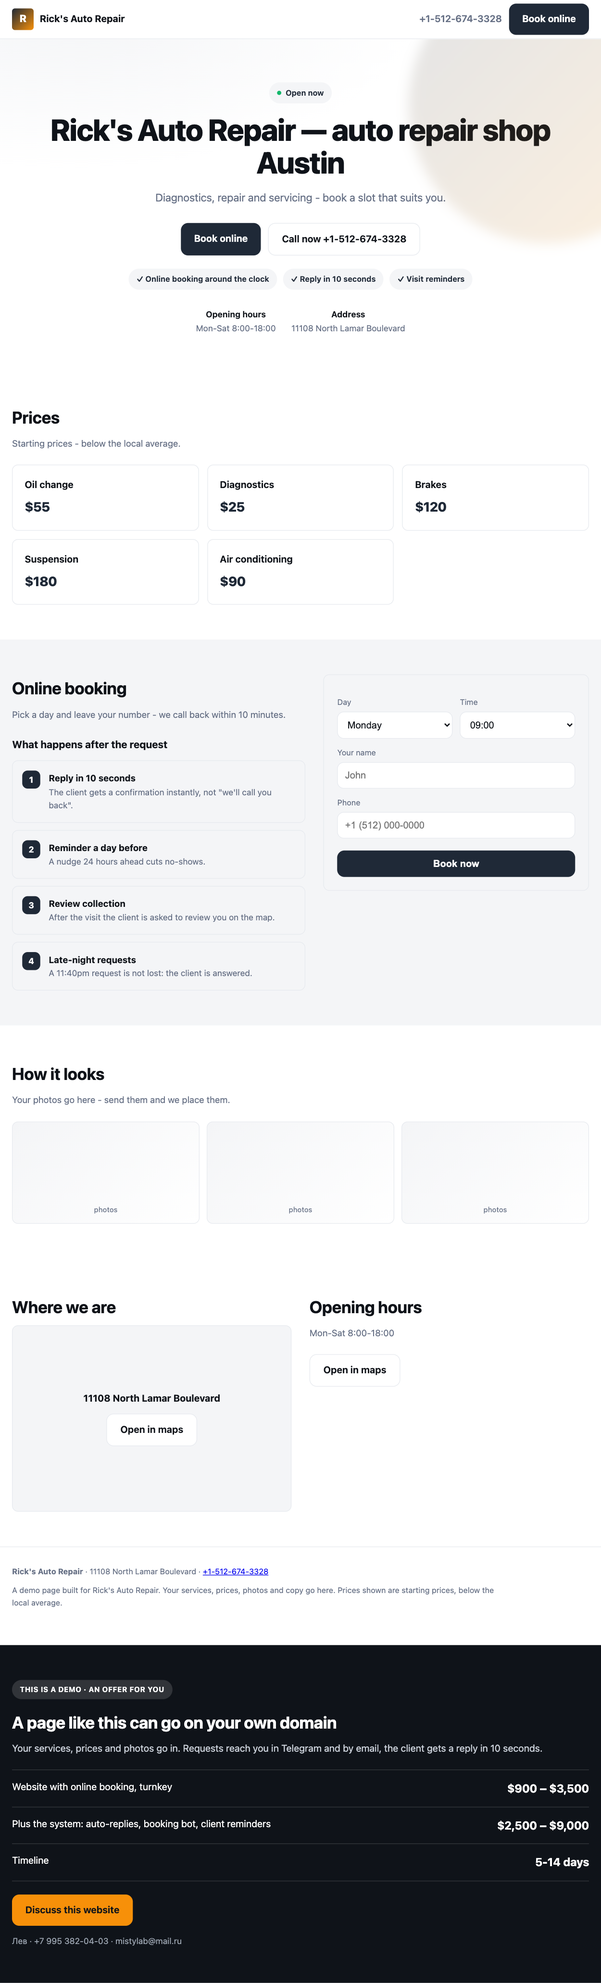
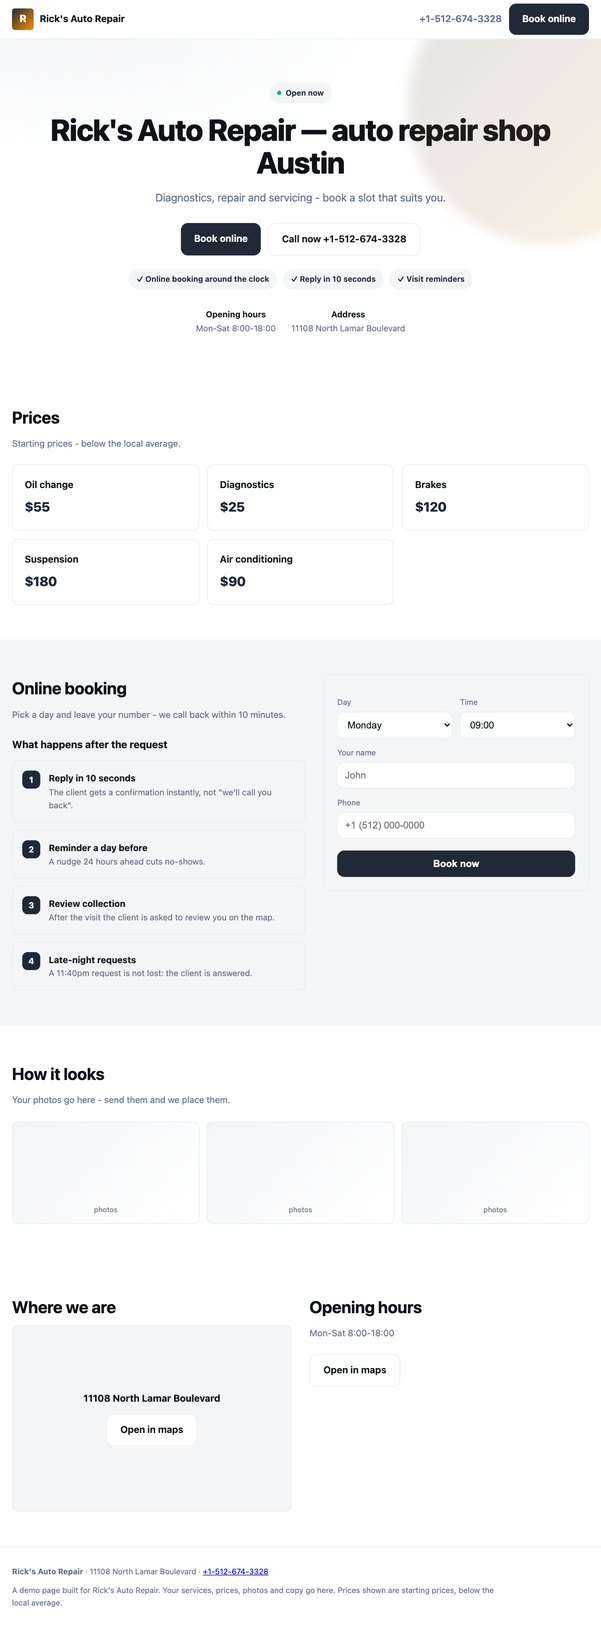
demos: 2026-10-21

diff --git a/demos/40-ru/index.html b/demos/40-ru/index.html
@@ -84,17 +84,6 @@
      backdrop-filter:blur(10px);border-top:1px solid var(--line);padding:10px 16px;
      display:flex;gap:10px;align-items:center}
  .sticky .btn{flex:1;text-align:center}
- .offer{background:var(--ink);color:#fff}
- .offer .tag{display:inline-block;background:rgba(255,255,255,.14);color:#fff;padding:6px 13px;
-     border-radius:100px;font-size:12px;font-weight:700;letter-spacing:.04em;text-transform:uppercase}
- .offer h2{color:#fff;margin-top:16px}
- .offer p{color:#c9cfd8}
- .offer .rows{margin-top:22px;border-top:1px solid rgba(255,255,255,.16)}
- .offer .r{display:flex;justify-content:space-between;gap:16px;padding:15px 0;
-     border-bottom:1px solid rgba(255,255,255,.16);flex-wrap:wrap}
- .offer .r b{font-size:19px;white-space:nowrap}
- .offer .btn{background:var(--b);color:#0f1319;margin-top:22px}
- .offer .who{margin-top:14px;font-size:14px;color:#9aa3af}
  @media(min-width:860px){.sticky{display:none}body{padding-bottom:0}}
  @media(max-width:820px){.book,.two{grid-template-columns:1fr}.hero{padding:44px 0 34px}}
  @media(max-width:560px){.bar .tel{display:none}.bar{height:58px}.logo{font-size:15px}
@@ -164,8 +153,6 @@
   <div><b>Первый юридический центр Казани</b> · Казань · <a href="tel:+7 843 2042886">+7 843 2042886</a></div>
   <div class="note">Демонстрационная страница, сделанная для Первый юридический центр Казани. Услуги, цены, фото и тексты подставим ваши. Цены в примере — стартовые, ниже средней по городу.</div>
 </div></footer>
-
-<section class="offer"><div class="wrap"><span class="tag">Это демонстрация · предложение для вас</span><h2>Такую страницу можно поставить на ваш домен</h2><p>Услуги, цены и фото подставим ваши. Заявки будут приходить вам в Telegram и на почту, клиенту — ответ за 10 секунд.</p><div class="rows"><div class="r"><span>Сайт с онлайн-записью, под ключ</span><b>45 000 ₽ – 150 000 ₽</b></div><div class="r"><span>Плюс система: автоответы, бот записи, напоминания клиентам</span><b>120 000 ₽ – 400 000 ₽</b></div><div class="r"><span>Срок</span><b>5-14 дн.</b></div></div><a class="btn" href="tel:+7 995 382-04-03">Обсудить этот сайт</a><div class="who">Лев · +7 995 382-04-03 · mistylab@mail.ru</div></div></section>
 
 <div class="sticky">
   <a class="btn ghost" href="tel:+7 843 2042886">Позвонить</a>

diff --git a/demos/36-ru/index.html b/demos/36-ru/index.html
@@ -84,17 +84,6 @@
      backdrop-filter:blur(10px);border-top:1px solid var(--line);padding:10px 16px;
      display:flex;gap:10px;align-items:center}
  .sticky .btn{flex:1;text-align:center}
- .offer{background:var(--ink);color:#fff}
- .offer .tag{display:inline-block;background:rgba(255,255,255,.14);color:#fff;padding:6px 13px;
-     border-radius:100px;font-size:12px;font-weight:700;letter-spacing:.04em;text-transform:uppercase}
- .offer h2{color:#fff;margin-top:16px}
- .offer p{color:#c9cfd8}
- .offer .rows{margin-top:22px;border-top:1px solid rgba(255,255,255,.16)}
- .offer .r{display:flex;justify-content:space-between;gap:16px;padding:15px 0;
-     border-bottom:1px solid rgba(255,255,255,.16);flex-wrap:wrap}
- .offer .r b{font-size:19px;white-space:nowrap}
- .offer .btn{background:var(--b);color:#0f1319;margin-top:22px}
- .offer .who{margin-top:14px;font-size:14px;color:#9aa3af}
  @media(min-width:860px){.sticky{display:none}body{padding-bottom:0}}
  @media(max-width:820px){.book,.two{grid-template-columns:1fr}.hero{padding:44px 0 34px}}
  @media(max-width:560px){.bar .tel{display:none}.bar{height:58px}.logo{font-size:15px}
@@ -164,8 +153,6 @@
   <div><b>Косметология Карины Каримовой</b> · Казань · <a href="tel:+7 919 6220003">+7 919 6220003</a></div>
   <div class="note">Демонстрационная страница, сделанная для Косметология Карины Каримовой. Услуги, цены, фото и тексты подставим ваши. Цены в примере — стартовые, ниже средней по городу.</div>
 </div></footer>
-
-<section class="offer"><div class="wrap"><span class="tag">Это демонстрация · предложение для вас</span><h2>Такую страницу можно поставить на ваш домен</h2><p>Услуги, цены и фото подставим ваши. Заявки будут приходить вам в Telegram и на почту, клиенту — ответ за 10 секунд.</p><div class="rows"><div class="r"><span>Сайт с онлайн-записью, под ключ</span><b>45 000 ₽ – 150 000 ₽</b></div><div class="r"><span>Плюс система: автоответы, бот записи, напоминания клиентам</span><b>120 000 ₽ – 400 000 ₽</b></div><div class="r"><span>Срок</span><b>5-14 дн.</b></div></div><a class="btn" href="tel:+7 995 382-04-03">Обсудить этот сайт</a><div class="who">Лев · +7 995 382-04-03 · mistylab@mail.ru</div></div></section>
 
 <div class="sticky">
   <a class="btn ghost" href="tel:+7 919 6220003">Позвонить</a>

diff --git a/demos/37-ru/index.html b/demos/37-ru/index.html
@@ -84,17 +84,6 @@
      backdrop-filter:blur(10px);border-top:1px solid var(--line);padding:10px 16px;
      display:flex;gap:10px;align-items:center}
  .sticky .btn{flex:1;text-align:center}
- .offer{background:var(--ink);color:#fff}
- .offer .tag{display:inline-block;background:rgba(255,255,255,.14);color:#fff;padding:6px 13px;
-     border-radius:100px;font-size:12px;font-weight:700;letter-spacing:.04em;text-transform:uppercase}
- .offer h2{color:#fff;margin-top:16px}
- .offer p{color:#c9cfd8}
- .offer .rows{margin-top:22px;border-top:1px solid rgba(255,255,255,.16)}
- .offer .r{display:flex;justify-content:space-between;gap:16px;padding:15px 0;
-     border-bottom:1px solid rgba(255,255,255,.16);flex-wrap:wrap}
- .offer .r b{font-size:19px;white-space:nowrap}
- .offer .btn{background:var(--b);color:#0f1319;margin-top:22px}
- .offer .who{margin-top:14px;font-size:14px;color:#9aa3af}
  @media(min-width:860px){.sticky{display:none}body{padding-bottom:0}}
  @media(max-width:820px){.book,.two{grid-template-columns:1fr}.hero{padding:44px 0 34px}}
  @media(max-width:560px){.bar .tel{display:none}.bar{height:58px}.logo{font-size:15px}
@@ -164,8 +153,6 @@
   <div><b>Барбер кинг</b> · улица Декабристов 112 · <a href="tel:+7 987 4872992">+7 987 4872992</a></div>
   <div class="note">Демонстрационная страница, сделанная для Барбер кинг. Услуги, цены, фото и тексты подставим ваши. Цены в примере — стартовые, ниже средней по городу.</div>
 </div></footer>
-
-<section class="offer"><div class="wrap"><span class="tag">Это демонстрация · предложение для вас</span><h2>Такую страницу можно поставить на ваш домен</h2><p>Услуги, цены и фото подставим ваши. Заявки будут приходить вам в Telegram и на почту, клиенту — ответ за 10 секунд.</p><div class="rows"><div class="r"><span>Сайт с онлайн-записью, под ключ</span><b>45 000 ₽ – 150 000 ₽</b></div><div class="r"><span>Плюс система: автоответы, бот записи, напоминания клиентам</span><b>120 000 ₽ – 400 000 ₽</b></div><div class="r"><span>Срок</span><b>5-14 дн.</b></div></div><a class="btn" href="tel:+7 995 382-04-03">Обсудить этот сайт</a><div class="who">Лев · +7 995 382-04-03 · mistylab@mail.ru</div></div></section>
 
 <div class="sticky">
   <a class="btn ghost" href="tel:+7 987 4872992">Позвонить</a>

diff --git a/demos/38-ru/index.html b/demos/38-ru/index.html
@@ -84,17 +84,6 @@
      backdrop-filter:blur(10px);border-top:1px solid var(--line);padding:10px 16px;
      display:flex;gap:10px;align-items:center}
  .sticky .btn{flex:1;text-align:center}
- .offer{background:var(--ink);color:#fff}
- .offer .tag{display:inline-block;background:rgba(255,255,255,.14);color:#fff;padding:6px 13px;
-     border-radius:100px;font-size:12px;font-weight:700;letter-spacing:.04em;text-transform:uppercase}
- .offer h2{color:#fff;margin-top:16px}
- .offer p{color:#c9cfd8}
- .offer .rows{margin-top:22px;border-top:1px solid rgba(255,255,255,.16)}
- .offer .r{display:flex;justify-content:space-between;gap:16px;padding:15px 0;
-     border-bottom:1px solid rgba(255,255,255,.16);flex-wrap:wrap}
- .offer .r b{font-size:19px;white-space:nowrap}
- .offer .btn{background:var(--b);color:#0f1319;margin-top:22px}
- .offer .who{margin-top:14px;font-size:14px;color:#9aa3af}
  @media(min-width:860px){.sticky{display:none}body{padding-bottom:0}}
  @media(max-width:820px){.book,.two{grid-template-columns:1fr}.hero{padding:44px 0 34px}}
  @media(max-width:560px){.bar .tel{display:none}.bar{height:58px}.logo{font-size:15px}
@@ -164,8 +153,6 @@
   <div><b>Клиника Мавлиевой</b> · Казань · <a href="tel:+7 966 2408619">+7 966 2408619</a></div>
   <div class="note">Демонстрационная страница, сделанная для Клиника Мавлиевой. Услуги, цены, фото и тексты подставим ваши. Цены в примере — стартовые, ниже средней по городу.</div>
 </div></footer>
-
-<section class="offer"><div class="wrap"><span class="tag">Это демонстрация · предложение для вас</span><h2>Такую страницу можно поставить на ваш домен</h2><p>Услуги, цены и фото подставим ваши. Заявки будут приходить вам в Telegram и на почту, клиенту — ответ за 10 секунд.</p><div class="rows"><div class="r"><span>Сайт с онлайн-записью, под ключ</span><b>45 000 ₽ – 150 000 ₽</b></div><div class="r"><span>Плюс система: автоответы, бот записи, напоминания клиентам</span><b>120 000 ₽ – 400 000 ₽</b></div><div class="r"><span>Срок</span><b>5-14 дн.</b></div></div><a class="btn" href="tel:+7 995 382-04-03">Обсудить этот сайт</a><div class="who">Лев · +7 995 382-04-03 · mistylab@mail.ru</div></div></section>
 
 <div class="sticky">
   <a class="btn ghost" href="tel:+7 966 2408619">Позвонить</a>

diff --git a/demos/31-ru/index.html b/demos/31-ru/index.html
@@ -84,17 +84,6 @@
      backdrop-filter:blur(10px);border-top:1px solid var(--line);padding:10px 16px;
      display:flex;gap:10px;align-items:center}
  .sticky .btn{flex:1;text-align:center}
- .offer{background:var(--ink);color:#fff}
- .offer .tag{display:inline-block;background:rgba(255,255,255,.14);color:#fff;padding:6px 13px;
-     border-radius:100px;font-size:12px;font-weight:700;letter-spacing:.04em;text-transform:uppercase}
- .offer h2{color:#fff;margin-top:16px}
- .offer p{color:#c9cfd8}
- .offer .rows{margin-top:22px;border-top:1px solid rgba(255,255,255,.16)}
- .offer .r{display:flex;justify-content:space-between;gap:16px;padding:15px 0;
-     border-bottom:1px solid rgba(255,255,255,.16);flex-wrap:wrap}
- .offer .r b{font-size:19px;white-space:nowrap}
- .offer .btn{background:var(--b);color:#0f1319;margin-top:22px}
- .offer .who{margin-top:14px;font-size:14px;color:#9aa3af}
  @media(min-width:860px){.sticky{display:none}body{padding-bottom:0}}
  @media(max-width:820px){.book,.two{grid-template-columns:1fr}.hero{padding:44px 0 34px}}
  @media(max-width:560px){.bar .tel{display:none}.bar{height:58px}.logo{font-size:15px}
@@ -164,8 +153,6 @@
   <div><b>Дс-оптимус</b> · улица Юлиуса Фучика 8 · <a href="tel:+7 843 2684577">+7 843 2684577</a></div>
   <div class="note">Демонстрационная страница, сделанная для Дс-оптимус. Услуги, цены, фото и тексты подставим ваши. Цены в примере — стартовые, ниже средней по городу.</div>
 </div></footer>
-
-<section class="offer"><div class="wrap"><span class="tag">Это демонстрация · предложение для вас</span><h2>Такую страницу можно поставить на ваш домен</h2><p>Услуги, цены и фото подставим ваши. Заявки будут приходить вам в Telegram и на почту, клиенту — ответ за 10 секунд.</p><div class="rows"><div class="r"><span>Сайт с онлайн-записью, под ключ</span><b>45 000 ₽ – 150 000 ₽</b></div><div class="r"><span>Плюс система: автоответы, бот записи, напоминания клиентам</span><b>120 000 ₽ – 400 000 ₽</b></div><div class="r"><span>Срок</span><b>5-14 дн.</b></div></div><a class="btn" href="tel:+7 995 382-04-03">Обсудить этот сайт</a><div class="who">Лев · +7 995 382-04-03 · mistylab@mail.ru</div></div></section>
 
 <div class="sticky">
   <a class="btn ghost" href="tel:+7 843 2684577">Позвонить</a>

diff --git a/demos/32-ru/index.html b/demos/32-ru/index.html
@@ -84,17 +84,6 @@
      backdrop-filter:blur(10px);border-top:1px solid var(--line);padding:10px 16px;
      display:flex;gap:10px;align-items:center}
  .sticky .btn{flex:1;text-align:center}
- .offer{background:var(--ink);color:#fff}
- .offer .tag{display:inline-block;background:rgba(255,255,255,.14);color:#fff;padding:6px 13px;
-     border-radius:100px;font-size:12px;font-weight:700;letter-spacing:.04em;text-transform:uppercase}
- .offer h2{color:#fff;margin-top:16px}
- .offer p{color:#c9cfd8}
- .offer .rows{margin-top:22px;border-top:1px solid rgba(255,255,255,.16)}
- .offer .r{display:flex;justify-content:space-between;gap:16px;padding:15px 0;
-     border-bottom:1px solid rgba(255,255,255,.16);flex-wrap:wrap}
- .offer .r b{font-size:19px;white-space:nowrap}
- .offer .btn{background:var(--b);color:#0f1319;margin-top:22px}
- .offer .who{margin-top:14px;font-size:14px;color:#9aa3af}
  @media(min-width:860px){.sticky{display:none}body{padding-bottom:0}}
  @media(max-width:820px){.book,.two{grid-template-columns:1fr}.hero{padding:44px 0 34px}}
  @media(max-width:560px){.bar .tel{display:none}.bar{height:58px}.logo{font-size:15px}
@@ -164,8 +153,6 @@
   <div><b>Perfect Auto Workshop</b> · Казань · <a href="tel:+7 843 2121612">+7 843 2121612</a></div>
   <div class="note">Демонстрационная страница, сделанная для Perfect Auto Workshop. Услуги, цены, фото и тексты подставим ваши. Цены в примере — стартовые, ниже средней по городу.</div>
 </div></footer>
-
-<section class="offer"><div class="wrap"><span class="tag">Это демонстрация · предложение для вас</span><h2>Такую страницу можно поставить на ваш домен</h2><p>Услуги, цены и фото подставим ваши. Заявки будут приходить вам в Telegram и на почту, клиенту — ответ за 10 секунд.</p><div class="rows"><div class="r"><span>Сайт с онлайн-записью, под ключ</span><b>45 000 ₽ – 150 000 ₽</b></div><div class="r"><span>Плюс система: автоответы, бот записи, напоминания клиентам</span><b>120 000 ₽ – 400 000 ₽</b></div><div class="r"><span>Срок</span><b>5-14 дн.</b></div></div><a class="btn" href="tel:+7 995 382-04-03">Обсудить этот сайт</a><div class="who">Лев · +7 995 382-04-03 · mistylab@mail.ru</div></div></section>
 
 <div class="sticky">
   <a class="btn ghost" href="tel:+7 843 2121612">Позвонить</a>

diff --git a/demos/33-ru/index.html b/demos/33-ru/index.html
@@ -84,17 +84,6 @@
      backdrop-filter:blur(10px);border-top:1px solid var(--line);padding:10px 16px;
      display:flex;gap:10px;align-items:center}
  .sticky .btn{flex:1;text-align:center}
- .offer{background:var(--ink);color:#fff}
- .offer .tag{display:inline-block;background:rgba(255,255,255,.14);color:#fff;padding:6px 13px;
-     border-radius:100px;font-size:12px;font-weight:700;letter-spacing:.04em;text-transform:uppercase}
- .offer h2{color:#fff;margin-top:16px}
- .offer p{color:#c9cfd8}
- .offer .rows{margin-top:22px;border-top:1px solid rgba(255,255,255,.16)}
- .offer .r{display:flex;justify-content:space-between;gap:16px;padding:15px 0;
-     border-bottom:1px solid rgba(255,255,255,.16);flex-wrap:wrap}
- .offer .r b{font-size:19px;white-space:nowrap}
- .offer .btn{background:var(--b);color:#0f1319;margin-top:22px}
- .offer .who{margin-top:14px;font-size:14px;color:#9aa3af}
  @media(min-width:860px){.sticky{display:none}body{padding-bottom:0}}
  @media(max-width:820px){.book,.two{grid-template-columns:1fr}.hero{padding:44px 0 34px}}
  @media(max-width:560px){.bar .tel{display:none}.bar{height:58px}.logo{font-size:15px}
@@ -164,8 +153,6 @@
   <div><b>Автоцех</b> · Казань · <a href="tel:+7 953 8986999">+7 953 8986999</a></div>
   <div class="note">Демонстрационная страница, сделанная для Автоцех. Услуги, цены, фото и тексты подставим ваши. Цены в примере — стартовые, ниже средней по городу.</div>
 </div></footer>
-
-<section class="offer"><div class="wrap"><span class="tag">Это демонстрация · предложение для вас</span><h2>Такую страницу можно поставить на ваш домен</h2><p>Услуги, цены и фото подставим ваши. Заявки будут приходить вам в Telegram и на почту, клиенту — ответ за 10 секунд.</p><div class="rows"><div class="r"><span>Сайт с онлайн-записью, под ключ</span><b>45 000 ₽ – 150 000 ₽</b></div><div class="r"><span>Плюс система: автоответы, бот записи, напоминания клиентам</span><b>120 000 ₽ – 400 000 ₽</b></div><div class="r"><span>Срок</span><b>5-14 дн.</b></div></div><a class="btn" href="tel:+7 995 382-04-03">Обсудить этот сайт</a><div class="who">Лев · +7 995 382-04-03 · mistylab@mail.ru</div></div></section>
 
 <div class="sticky">
   <a class="btn ghost" href="tel:+7 953 8986999">Позвонить</a>

diff --git a/demos/34-ru/index.html b/demos/34-ru/index.html
@@ -84,17 +84,6 @@
      backdrop-filter:blur(10px);border-top:1px solid var(--line);padding:10px 16px;
      display:flex;gap:10px;align-items:center}
  .sticky .btn{flex:1;text-align:center}
- .offer{background:var(--ink);color:#fff}
- .offer .tag{display:inline-block;background:rgba(255,255,255,.14);color:#fff;padding:6px 13px;
-     border-radius:100px;font-size:12px;font-weight:700;letter-spacing:.04em;text-transform:uppercase}
- .offer h2{color:#fff;margin-top:16px}
- .offer p{color:#c9cfd8}
- .offer .rows{margin-top:22px;border-top:1px solid rgba(255,255,255,.16)}
- .offer .r{display:flex;justify-content:space-between;gap:16px;padding:15px 0;
-     border-bottom:1px solid rgba(255,255,255,.16);flex-wrap:wrap}
- .offer .r b{font-size:19px;white-space:nowrap}
- .offer .btn{background:var(--b);color:#0f1319;margin-top:22px}
- .offer .who{margin-top:14px;font-size:14px;color:#9aa3af}
  @media(min-width:860px){.sticky{display:none}body{padding-bottom:0}}
  @media(max-width:820px){.book,.two{grid-template-columns:1fr}.hero{padding:44px 0 34px}}
  @media(max-width:560px){.bar .tel{display:none}.bar{height:58px}.logo{font-size:15px}
@@ -164,8 +153,6 @@
   <div><b>Инжектор</b> · Казань · <a href="tel:+78432586395">+78432586395</a></div>
   <div class="note">Демонстрационная страница, сделанная для Инжектор. Услуги, цены, фото и тексты подставим ваши. Цены в примере — стартовые, ниже средней по городу.</div>
 </div></footer>
-
-<section class="offer"><div class="wrap"><span class="tag">Это демонстрация · предложение для вас</span><h2>Такую страницу можно поставить на ваш домен</h2><p>Услуги, цены и фото подставим ваши. Заявки будут приходить вам в Telegram и на почту, клиенту — ответ за 10 секунд.</p><div class="rows"><div class="r"><span>Сайт с онлайн-записью, под ключ</span><b>45 000 ₽ – 150 000 ₽</b></div><div class="r"><span>Плюс система: автоответы, бот записи, напоминания клиентам</span><b>120 000 ₽ – 400 000 ₽</b></div><div class="r"><span>Срок</span><b>5-14 дн.</b></div></div><a class="btn" href="tel:+7 995 382-04-03">Обсудить этот сайт</a><div class="who">Лев · +7 995 382-04-03 · mistylab@mail.ru</div></div></section>
 
 <div class="sticky">
   <a class="btn ghost" href="tel:+78432586395">Позвонить</a>

diff --git a/demos/39-ru/index.html b/demos/39-ru/index.html
@@ -84,17 +84,6 @@
      backdrop-filter:blur(10px);border-top:1px solid var(--line);padding:10px 16px;
      display:flex;gap:10px;align-items:center}
  .sticky .btn{flex:1;text-align:center}
- .offer{background:var(--ink);color:#fff}
- .offer .tag{display:inline-block;background:rgba(255,255,255,.14);color:#fff;padding:6px 13px;
-     border-radius:100px;font-size:12px;font-weight:700;letter-spacing:.04em;text-transform:uppercase}
- .offer h2{color:#fff;margin-top:16px}
- .offer p{color:#c9cfd8}
- .offer .rows{margin-top:22px;border-top:1px solid rgba(255,255,255,.16)}
- .offer .r{display:flex;justify-content:space-between;gap:16px;padding:15px 0;
-     border-bottom:1px solid rgba(255,255,255,.16);flex-wrap:wrap}
- .offer .r b{font-size:19px;white-space:nowrap}
- .offer .btn{background:var(--b);color:#0f1319;margin-top:22px}
- .offer .who{margin-top:14px;font-size:14px;color:#9aa3af}
  @media(min-width:860px){.sticky{display:none}body{padding-bottom:0}}
  @media(max-width:820px){.book,.two{grid-template-columns:1fr}.hero{padding:44px 0 34px}}
  @media(max-width:560px){.bar .tel{display:none}.bar{height:58px}.logo{font-size:15px}
@@ -164,8 +153,6 @@
   <div><b>Zoo Вет</b> · Казань · <a href="tel:+7 843 253-85-81">+7 843 253-85-81</a></div>
   <div class="note">Демонстрационная страница, сделанная для Zoo Вет. Услуги, цены, фото и тексты подставим ваши. Цены в примере — стартовые, ниже средней по городу.</div>
 </div></footer>
-
-<section class="offer"><div class="wrap"><span class="tag">Это демонстрация · предложение для вас</span><h2>Такую страницу можно поставить на ваш домен</h2><p>Услуги, цены и фото подставим ваши. Заявки будут приходить вам в Telegram и на почту, клиенту — ответ за 10 секунд.</p><div class="rows"><div class="r"><span>Сайт с онлайн-записью, под ключ</span><b>45 000 ₽ – 150 000 ₽</b></div><div class="r"><span>Плюс система: автоответы, бот записи, напоминания клиентам</span><b>120 000 ₽ – 400 000 ₽</b></div><div class="r"><span>Срок</span><b>5-14 дн.</b></div></div><a class="btn" href="tel:+7 995 382-04-03">Обсудить этот сайт</a><div class="who">Лев · +7 995 382-04-03 · mistylab@mail.ru</div></div></section>
 
 <div class="sticky">
   <a class="btn ghost" href="tel:+7 843 253-85-81">Позвонить</a>

diff --git a/demos/35-ru/index.html b/demos/35-ru/index.html
@@ -84,17 +84,6 @@
      backdrop-filter:blur(10px);border-top:1px solid var(--line);padding:10px 16px;
      display:flex;gap:10px;align-items:center}
  .sticky .btn{flex:1;text-align:center}
- .offer{background:var(--ink);color:#fff}
- .offer .tag{display:inline-block;background:rgba(255,255,255,.14);color:#fff;padding:6px 13px;
-     border-radius:100px;font-size:12px;font-weight:700;letter-spacing:.04em;text-transform:uppercase}
- .offer h2{color:#fff;margin-top:16px}
- .offer p{color:#c9cfd8}
- .offer .rows{margin-top:22px;border-top:1px solid rgba(255,255,255,.16)}
- .offer .r{display:flex;justify-content:space-between;gap:16px;padding:15px 0;
-     border-bottom:1px solid rgba(255,255,255,.16);flex-wrap:wrap}
- .offer .r b{font-size:19px;white-space:nowrap}
- .offer .btn{background:var(--b);color:#0f1319;margin-top:22px}
- .offer .who{margin-top:14px;font-size:14px;color:#9aa3af}
  @media(min-width:860px){.sticky{display:none}body{padding-bottom:0}}
  @media(max-width:820px){.book,.two{grid-template-columns:1fr}.hero{padding:44px 0 34px}}
  @media(max-width:560px){.bar .tel{display:none}.bar{height:58px}.logo{font-size:15px}
@@ -164,8 +153,6 @@
   <div><b>Kznsalon</b> · Казань · <a href="tel:+7 927 4271234">+7 927 4271234</a></div>
   <div class="note">Демонстрационная страница, сделанная для Kznsalon. Услуги, цены, фото и тексты подставим ваши. Цены в примере — стартовые, ниже средней по городу.</div>
 </div></footer>
-
-<section class="offer"><div class="wrap"><span class="tag">Это демонстрация · предложение для вас</span><h2>Такую страницу можно поставить на ваш домен</h2><p>Услуги, цены и фото подставим ваши. Заявки будут приходить вам в Telegram и на почту, клиенту — ответ за 10 секунд.</p><div class="rows"><div class="r"><span>Сайт с онлайн-записью, под ключ</span><b>45 000 ₽ – 150 000 ₽</b></div><div class="r"><span>Плюс система: автоответы, бот записи, напоминания клиентам</span><b>120 000 ₽ – 400 000 ₽</b></div><div class="r"><span>Срок</span><b>5-14 дн.</b></div></div><a class="btn" href="tel:+7 995 382-04-03">Обсудить этот сайт</a><div class="who">Лев · +7 995 382-04-03 · mistylab@mail.ru</div></div></section>
 
 <div class="sticky">
   <a class="btn ghost" href="tel:+7 927 4271234">Позвонить</a>

diff --git a/demos/19-en/index.html b/demos/19-en/index.html
@@ -84,17 +84,6 @@
      backdrop-filter:blur(10px);border-top:1px solid var(--line);padding:10px 16px;
      display:flex;gap:10px;align-items:center}
  .sticky .btn{flex:1;text-align:center}
- .offer{background:var(--ink);color:#fff}
- .offer .tag{display:inline-block;background:rgba(255,255,255,.14);color:#fff;padding:6px 13px;
-     border-radius:100px;font-size:12px;font-weight:700;letter-spacing:.04em;text-transform:uppercase}
- .offer h2{color:#fff;margin-top:16px}
- .offer p{color:#c9cfd8}
- .offer .rows{margin-top:22px;border-top:1px solid rgba(255,255,255,.16)}
- .offer .r{display:flex;justify-content:space-between;gap:16px;padding:15px 0;
-     border-bottom:1px solid rgba(255,255,255,.16);flex-wrap:wrap}
- .offer .r b{font-size:19px;white-space:nowrap}
- .offer .btn{background:var(--b);color:#0f1319;margin-top:22px}
- .offer .who{margin-top:14px;font-size:14px;color:#9aa3af}
  @media(min-width:860px){.sticky{display:none}body{padding-bottom:0}}
  @media(max-width:820px){.book,.two{grid-template-columns:1fr}.hero{padding:44px 0 34px}}
  @media(max-width:560px){.bar .tel{display:none}.bar{height:58px}.logo{font-size:15px}
@@ -164,8 +153,6 @@
   <div><b>Cecy&#x27;s Beauty Salon &amp; Supply</b> · 5201 Manor Road · <a href="tel:+1-512-926-8869">+1-512-926-8869</a></div>
   <div class="note">A demo page built for Cecy&#x27;s Beauty Salon &amp; Supply. Your services, prices, photos and copy go here. Prices shown are starting prices, below the local average.</div>
 </div></footer>
-
-<section class="offer"><div class="wrap"><span class="tag">This is a demo · an offer for you</span><h2>A page like this can go on your own domain</h2><p>Your services, prices and photos go in. Requests reach you in Telegram and by email, the client gets a reply in 10 seconds.</p><div class="rows"><div class="r"><span>Website with online booking, turnkey</span><b>$900 – $3,500</b></div><div class="r"><span>Plus the system: auto-replies, booking bot, client reminders</span><b>$2,500 – $9,000</b></div><div class="r"><span>Timeline</span><b>5-14 days</b></div></div><a class="btn" href="tel:+7 995 382-04-03">Discuss this website</a><div class="who">Лев · +7 995 382-04-03 · mistylab@mail.ru</div></div></section>
 
 <div class="sticky">
   <a class="btn ghost" href="tel:+1-512-926-8869">Call now</a>

diff --git a/demos/13-en/index.html b/demos/13-en/index.html
@@ -84,17 +84,6 @@
      backdrop-filter:blur(10px);border-top:1px solid var(--line);padding:10px 16px;
      display:flex;gap:10px;align-items:center}
  .sticky .btn{flex:1;text-align:center}
- .offer{background:var(--ink);color:#fff}
- .offer .tag{display:inline-block;background:rgba(255,255,255,.14);color:#fff;padding:6px 13px;
-     border-radius:100px;font-size:12px;font-weight:700;letter-spacing:.04em;text-transform:uppercase}
- .offer h2{color:#fff;margin-top:16px}
- .offer p{color:#c9cfd8}
- .offer .rows{margin-top:22px;border-top:1px solid rgba(255,255,255,.16)}
- .offer .r{display:flex;justify-content:space-between;gap:16px;padding:15px 0;
-     border-bottom:1px solid rgba(255,255,255,.16);flex-wrap:wrap}
- .offer .r b{font-size:19px;white-space:nowrap}
- .offer .btn{background:var(--b);color:#0f1319;margin-top:22px}
- .offer .who{margin-top:14px;font-size:14px;color:#9aa3af}
  @media(min-width:860px){.sticky{display:none}body{padding-bottom:0}}
  @media(max-width:820px){.book,.two{grid-template-columns:1fr}.hero{padding:44px 0 34px}}
  @media(max-width:560px){.bar .tel{display:none}.bar{height:58px}.logo{font-size:15px}
@@ -164,8 +153,6 @@
   <div><b>Rick&#x27;s Auto Repair</b> · 11108 North Lamar Boulevard · <a href="tel:+1-512-674-3328">+1-512-674-3328</a></div>
   <div class="note">A demo page built for Rick&#x27;s Auto Repair. Your services, prices, photos and copy go here. Prices shown are starting prices, below the local average.</div>
 </div></footer>
-
-<section class="offer"><div class="wrap"><span class="tag">This is a demo · an offer for you</span><h2>A page like this can go on your own domain</h2><p>Your services, prices and photos go in. Requests reach you in Telegram and by email, the client gets a reply in 10 seconds.</p><div class="rows"><div class="r"><span>Website with online booking, turnkey</span><b>$900 – $3,500</b></div><div class="r"><span>Plus the system: auto-replies, booking bot, client reminders</span><b>$2,500 – $9,000</b></div><div class="r"><span>Timeline</span><b>5-14 days</b></div></div><a class="btn" href="tel:+7 995 382-04-03">Discuss this website</a><div class="who">Лев · +7 995 382-04-03 · mistylab@mail.ru</div></div></section>
 
 <div class="sticky">
   <a class="btn ghost" href="tel:+1-512-674-3328">Call now</a>
